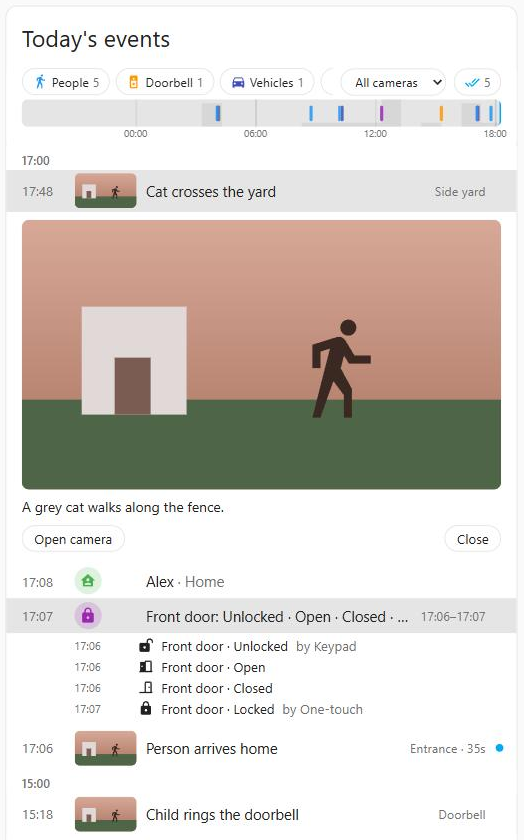
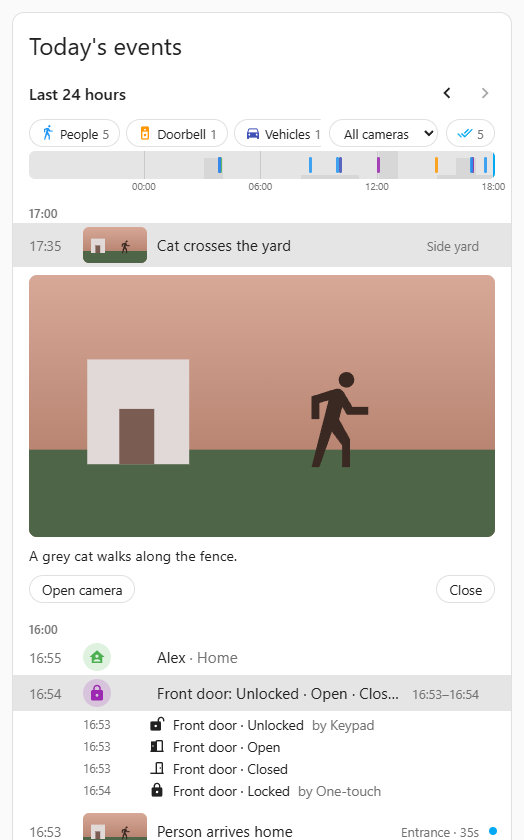
Add a short recording of the card to the README (#11)
## Problem

The README showed three still screenshots, so a visitor (and the HACS
store page) couldn't
see how the card is used: filtering, the day strip, opening a row. The
stills also no longer
match the dev harness's example data once #9 lands (the garage rows get
GenAI titles and
threat badges).

## Scope

Documentation only, no code and no CHANGELOG entry. It helps anyone
deciding whether to
install the card, and it prepares the README for a HACS
default-repository submission,
which renders it. **Merge after #9**: the images show #9's example data
(the "Suspicious"
and "Security concern" rows).

## Change

- `docs/demo.gif` (540 × 760, 26 s, 394 KB) replaces the top screenshot:
the People chip
filters the list and is cleared, a drag along the day strip highlights
the nearest rows,
a lock bounce opens to show each step, and an AI event opens with its
picture and
  description. A drawn cursor shows where each click lands.
- `docs/details.png` and `docs/mobile-dark.png` are retaken from the
same example data, with
  the same framing as before.
- `docs/screenshot.png` is removed (the GIF replaces it). README alt
text describes the GIF.

## Verification

- Captured from the dev harness with the generated example data only
(`?now=2026-10-14T18:05:00+02:00`),
with the Frigate dev proxy switched off, so no real media can load.
Headless Chrome via
`puppeteer-core`, device scale 1, grayscale text antialiasing (so the
images scale without
[…]

diff --git a/README.md b/README.md
@@ -16,7 +16,7 @@ A Home Assistant dashboard card that shows **one compact timeline of the day's e
 [![Open in HACS](https://my.home-assistant.io/badges/hacs_repository.svg)](https://my.home-assistant.io/redirect/hacs_repository/?owner=oddhus&repository=event-reel-card&category=plugin)
 
 <p>
-  <img src="docs/screenshot.png" alt="The timeline with filter chips, the day strip, camera previews and grouped door events" width="420">
+  <img src="docs/demo.gif" alt="The card in use: the People filter chip narrows the timeline, dragging along the day strip highlights the nearest events, a lock bounce opens to show each step, and an AI event opens with its picture and description" width="420">
 </p>
 
 > **Status:** early release. Versions follow [Semantic Versioning](https://semver.org/);
